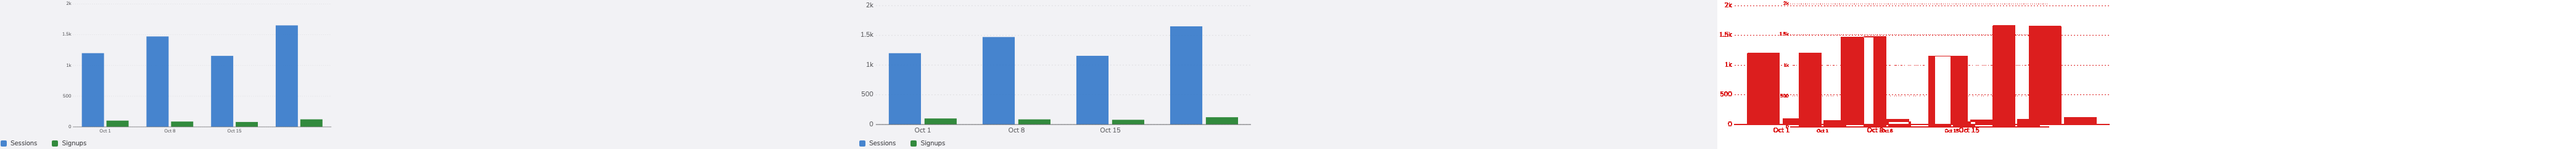
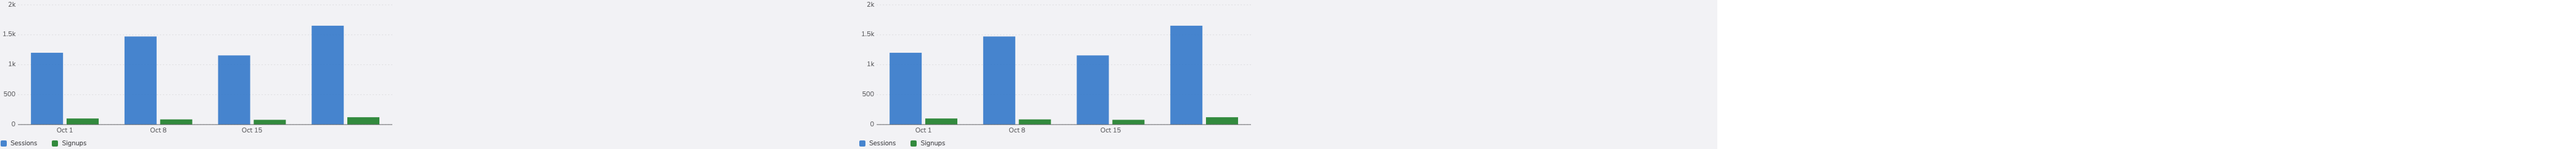
docs: the Astro matrix records chart kinds correct at their declared width

Changed region(s): [[0.0, 0.1728, 0.1557, 0.893], [0.6537, 0.1728, 0.8405, 0.893], [0.3736, 0.2305, 0.4047, 0.2593]]

diff --git a/apps/playground-astro/src/parts/findings.ts b/apps/playground-astro/src/parts/findings.ts
@@ -27,8 +27,7 @@ export const FINDINGS: readonly Finding[] = [
   {
     parts: CHART_KINDS,
     cause:
-      "The server SVG is drawn at the engine's default 640 x 320: `packages/basalt-ui/src/charts/host.tsx` passes the engine `initialWidth` only, `@tanstack/charts` then takes `initialHeight = options.height ?? 320` (its `adapter-shared.js`), while the CSS box is the declared height, so the picture is scaled down and letterboxed (the band strip shrinks to a sliver). Measured 2026-11-20 with host.tsx also passing a numeric `height` (an uncommitted probe): the 1440 diff fell to 2.8% lines, 2.2% bars, 3.0% CartesianChart, 7.0% Heatmap, 0% IntervalTrack and 2.8% BandStrip, the rest being axis gutters the engine sizes from text it measures in the browser; at 390 the 640 server width stays wrong (8 to 55%). The fix: pass the box height, give the server a width (a declared width or the container class's), and size gutters from basalt's generated label widths on both sides. Sparkline draws its own SVG and is static-clean already. Hover on top is the same kind as a client:visible island; the engine is most of its 100 to 120 kB further cost.",
-    row: 'astro-chart-server-picture',
+      "Correct at the declared width: the server SVG is drawn for the frame the server assumes (`INITIAL_WIDTH`, 640 px, in `packages/basalt-ui/src/charts/sizing.ts`; a `ChartCard` less its two 16 px edges) at the height the box resolves to there (`boxHeightAt` in `box.tsx`, handed to the engine on the server pass only, in `host.tsx`), and the engine measures text from basalt's generated label widths on both sides (`text-measure.ts`), so at 1440 the static picture is the hydrated one to the pixel. The residual is at 390: the box there is 342 px, narrower than the 640 px the server drew for, and HTML rendered before any browser cannot know the viewport, so the browser scales the 640 px picture into the box (the svg's viewBox), with smaller text and a letterbox, until an island redraws it at its measured width; a page with no island keeps the scaled picture. Sparkline draws its own SVG, scaled per axis, and is static-clean at every width. Hover on top is the same kind as a client:visible island; the engine is most of its 100 to 120 kB further cost.",
   },
   {
     parts: ['inner-nav', 'split-page', 'controls', 'control-home', 'app-shell'],
